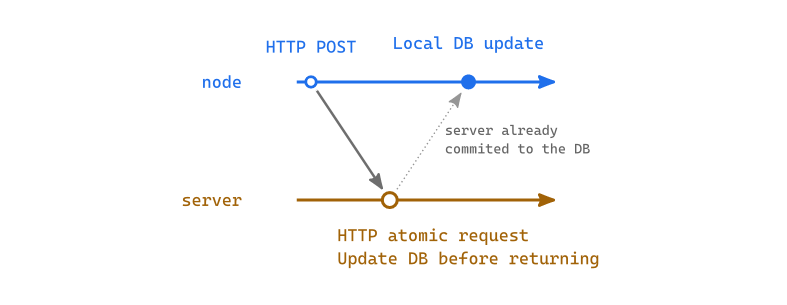
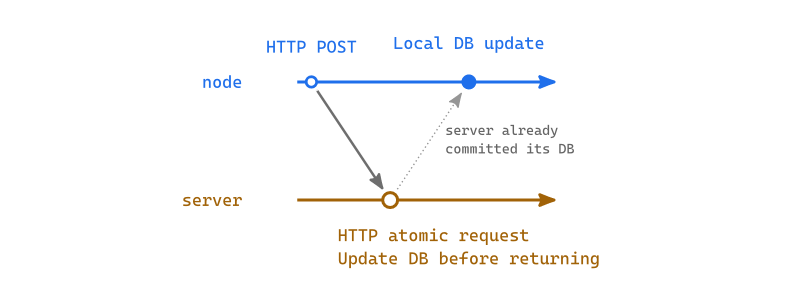
docs: reword the sync example's note, and name the documentation it went into
The note on the reply arrow reads `committed its DB`, with the spelling of `committed` corrected on
the way past, and the example is rendered again for it.

`site` moves to the build that carries all of it: the new example and the guide's footnote, the rule
that picks a label's side, the three new locators, and the arguments of a point under their new
names.

diff --git a/docs/overlays.rst b/docs/overlays.rst
@@ -378,8 +378,8 @@ What the locator holds
 
    Return the `coordinate`:term: of the middle of that same shaft, from the same two ends.  It is to
    an arrow an overlay draws what `arrow-mid(name) <arrow-mid>`:locator: is to one the diagram drew:
-   the place an arrow's own label goes before it is stepped off the shaft, and so the place to hang a
-   note.
+   the place an arrow's own label goes before it is stepped off the shaft, and so the place to hang
+   a note.
 
 .. typst:locator:: column(replica, id-or-index)
 
